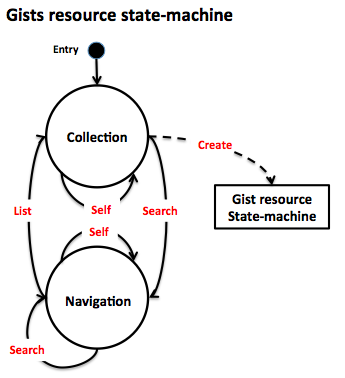
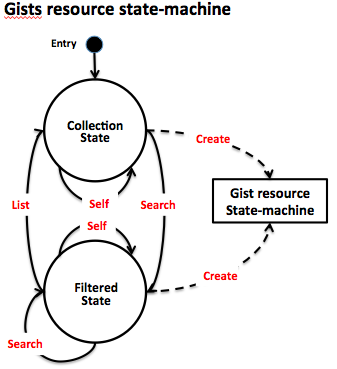
Updated Statemachines and update readme

diff --git a/README.md b/README.md
@@ -2,14 +2,16 @@
 
 # Resource Blueprint
 
-Initial proposal of resource-oriented, protocol-independent [API Blueprint](http://apiblueprint.org). Focused on modeling API resources, their attributes, [affordances](http://en.wikipedia.org/wiki/Affordance) and an API state machine.
+Initial proposal of resource-oriented, protocol-independent [API Blueprint](http://apiblueprint.org). Focused on 
+modeling API resources, their attributes, [affordances](http://en.wikipedia.org/wiki/Affordance) and an API state machine.
 
 ## Concepts
 
 The following highlights the API design concepts underlying a Resource Blueprint.
 
 * Semantically define data and affordances (link relations).
-* Define a state-machine representing the resource and the transition conditions (business rules) in different states.
+* Define a state-machines representing a resource and its transitions in different states (business rules)
+and the conditions (permissions) for their inclusion in a response.
     * Ideally, this should ultimately draw the state-machine as part of the design process.
     * Will be used mock the API to act as a true hypermedia API based on state.
 * Adding metadata to elements that could be used to define a profile (e.g. ALPS) from the blueprint and other uses in 
@@ -26,6 +28,40 @@ the machine-readable output of the API Blueprint parser.
 APIs associated with specific resources can be designed individually as parts of an overall API that may span several
 resource blueprints to represent the overall API application state-machine.
 
+### Noun vs. Verb Affordances (link relations)
+The concepts of "application state" and "resource state" are a useful level abstraction as one thinks about an API and 
+the affordances that exist in a response. From an API standpoint it is all transparent, you just get data and 
+links/forms. But some affordances will affect/cycle resource state more like "actions" while other affordances will 
+link to other resources and change "application state" more like nouns. 
+
+The noun driven idea about relations is strongly tied to the idea of polling options to find uniform interface verbs w/r 
+to a particular resource and moving forward. This perspective is particularly limiting in an M2M 
+situation where you want a machine to semantically understand a relation vs. a verb in the uniform interface and very possibly 
+have a situation where a service can specify the verb as part of the metadata associated with a link in a response. 
+
+Thus, a client need only understand the semantic significance of the link relation and move forward. Verb related 
+transitions/relations would be completely appropriate in that case (and more semantically rich than nouns). 
+Accommodating this type of idea is important vs. the more human-documentation centric position of understanding 
+what the verbs in the uniform interface do as a sole approach.
+
+### Resource States
+Resource state machine affordances are two-fold. There are affordances that change state in such a way that the 
+set of _possible_ affordances change and those that exercise data-state wherein some property(ies) of the resource are 
+modified but the _possible affordances_ are not affected by those changes. There are infinite of the latter. However,
+based on business rules, there are a finite number of unique sets of _possible_ affordances. These sets of affordances
+define the actual resource states.
+
+### Context and Conditions
+When a resource is in some particular state, the only affordances at any time that may be returned are a fixed set. 
+Whether or not an affordance is returned in a response is a function of context and conditions. These do not represent 
+a resource state in the state-machine, but rather a filter on the available affordances that the context gives access 
+to. 
+
+E.g. if the state has an `edit` affordance and you don't have rights to edit it, you don't see the affordance. This 
+is not a different state of the resource from a state-machine standpoint of the resource, but rather of what you can 
+do with it at some point in time for the given context and conditions (permissions). To the client, it may well look 
+like a different state, but from the internals of an API it is not a separate state of a resource.
+
 ## Use Case API
 As a use-case API this proposal is built on [Gist Fox API](../examples/Gist%20Fox%20API.md). This [example API](Gist%20API.md) includes:
 
@@ -41,11 +77,11 @@ check its [raw version](https://raw.github.com/apiaryio/api-blueprint/resource-b
 
 ### Gists Resource 
 An entry point to Resource Blueprint Gist API is the `Gists` resource in its `collection` state. This resource has two states: `collection` and 
-`navigation`:
+`filtered`:
 
 ![fig1](assets/Gist%20State%20Machine%20001.png)
 
-> **Note:** Collection also serves as a factory for individual `Gist` entities.
+> **Note:** Both states also serve as factories for individual `Gist` entities.
 
 ### Gist Resource
 A `Gist` resource created by the `Gists`'s `create` affordance has following two states: `active` and `archived`:
@@ -118,4 +154,5 @@ Where possible use undecorated plain text. In the case of a clash with keyword a
 
 
 ## Acknowledgements
-Special thanks to @fosdev for his tremendous contribution as well as images of the Gist State Machine. 
+Special thanks to [@fosdev](https://github.com/fosdev) at [Medidata Solutions](https://twitter.com/Medidata) for his 
+tremendous contribution as well as images of the Gist State Machine. 
